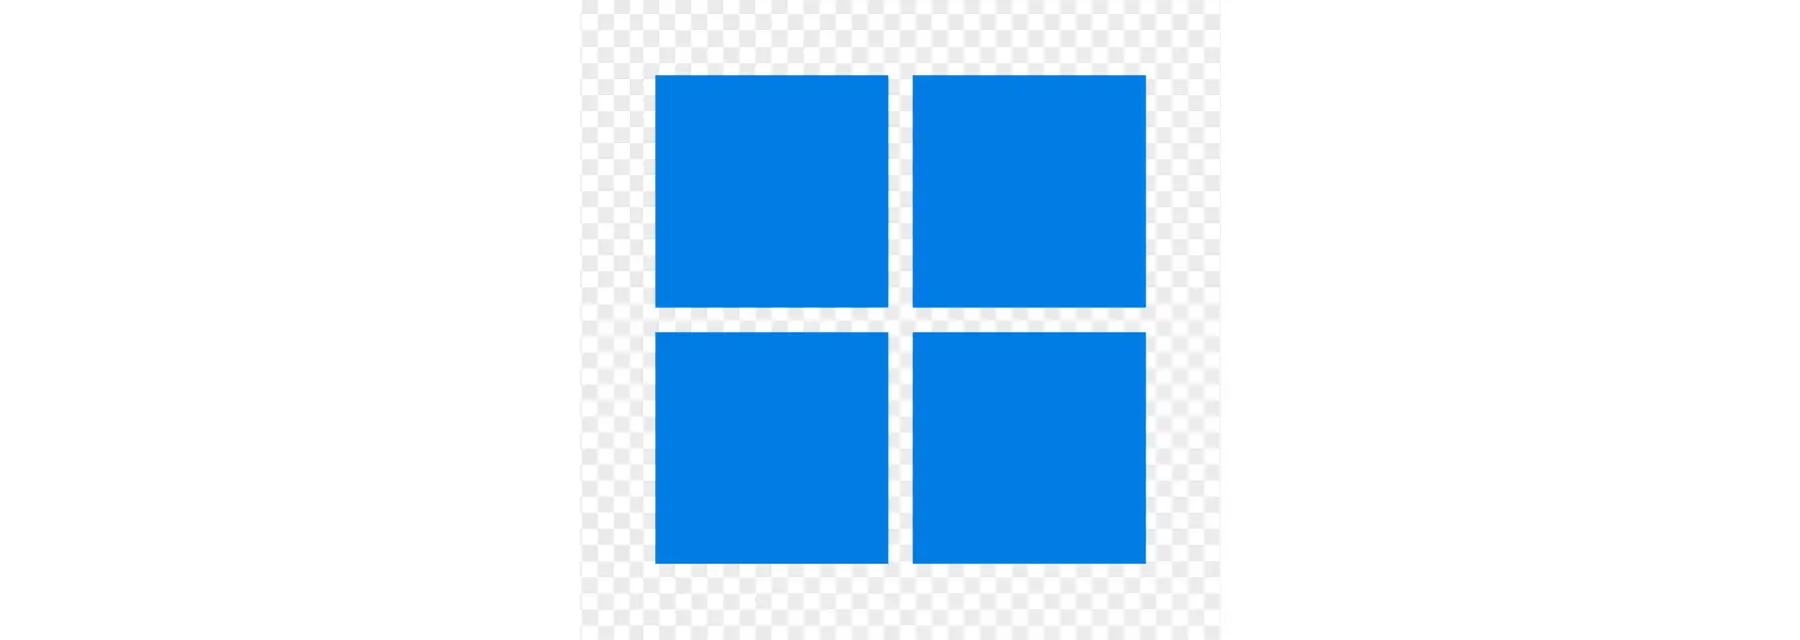
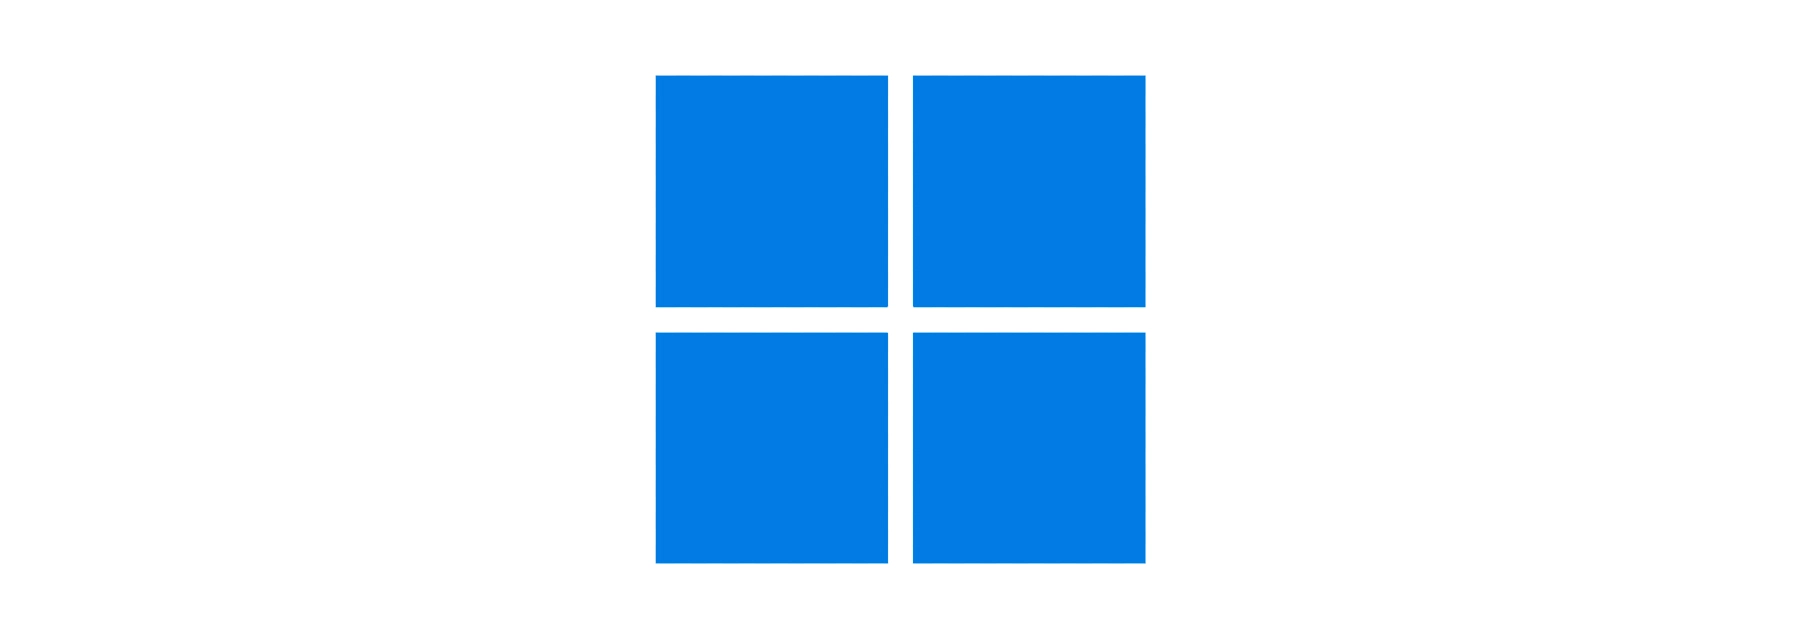
feat: Page display improvements: Improved display of images on the following pages: /instalacja-linux /instalacja-windows /instalacja-macOS Removal of background images from the following pages: /realizacja1 /realizacja2 /realizacja3 /realizacja4

Changed region(s): [[0.3733, 0.0938, 0.4356, 0.125], [0.4667, 0.0938, 0.4978, 0.125]]

diff --git a/pages/realizacje/realizacja4.js b/pages/realizacje/realizacja4.js
@@ -28,7 +28,7 @@ export default function Realizacja4() {
   };
 
   return (
-    <div className="min-h-screen bg-[#212121] text-white">
+    <div className="min-h-screen text-white">
       <Head>
         <title>Realizacja - Modernizacja Karty Graficznej RTX 2070 | Titanium Systems</title>
         <meta name="description" content="Szczegółowy opis modernizacji karty graficznej RTX 2070, w tym czyszczenie, wymiana pasty termoprzewodzącej i termopadów." />

diff --git a/pages/realizacje/realizacja2.js b/pages/realizacje/realizacja2.js
@@ -24,7 +24,7 @@ export default function Realizacja2() {
   };
 
   return (
-    <div className="min-h-screen bg-[#212121] text-white">
+    <div className="min-h-screen text-white">
       <Head>
         <title>Realizacja - Komputer do gier i obróbki wideo | Titanium Systems</title>
         <meta name="description" content="Projekt komputera gamingowego z procesorem i5 10600KF i kartą RTX 3060, zoptymalizowanego pod gry i obróbkę wideo." />

diff --git a/pages/realizacje/realizacja3.js b/pages/realizacje/realizacja3.js
@@ -26,7 +26,7 @@ export default function Realizacja3() {
   };
 
   return (
-    <div className="min-h-screen bg-[#212121] text-white">
+    <div className="min-h-screen text-white">
       <Head>
         <title>Realizacja - Stacja graficzna dla SOTIS STUDIO</title>
         <meta name="description" content="Modernizacja i optymalizacja stacji graficznej dla SOTIS STUDIO sp z o.o." />

diff --git a/pages/realizacje/realizacja1.js b/pages/realizacje/realizacja1.js
@@ -24,7 +24,7 @@ export default function Realizacja1() {
   };
 
   return (
-    <div className="min-h-screen bg-[#212121] text-white">
+    <div className="min-h-screen text-white">
       <Head>
         <title>Realizacja - Projekt Komputera do gier</title>
         <meta name="description" content="Opis projektu Komputera do gier, szczegóły i zdjęcia." />
